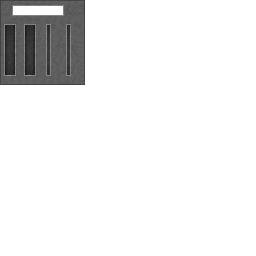
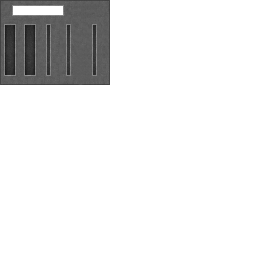
add working reverser

Changed region(s): [[0.3125, 0.0, 0.4375, 0.3438]]

diff --git a/src/main/java/cam72cam/immersiverailroading/entity/Locomotive.java b/src/main/java/cam72cam/immersiverailroading/entity/Locomotive.java
@@ -25,6 +25,7 @@ public abstract class Locomotive extends FreightTank {
 
 	private static DataParameter<Float> THROTTLE = EntityDataManager.createKey(Locomotive.class, DataSerializers.FLOAT);
 	private static DataParameter<Float> AIR_BRAKE = EntityDataManager.createKey(Locomotive.class, DataSerializers.FLOAT);
+	private static DataParameter<Float> REVERSER = EntityDataManager.createKey(Locomotive.class, DataSerializers.FLOAT);
 	protected static DataParameter<Integer> HORN = EntityDataManager.createKey(Locomotive.class, DataSerializers.VARINT);
 	protected static DataParameter<Optional<UUID>> HORN_PLAYER = EntityDataManager.createKey(Locomotive.class, DataSerializers.OPTIONAL_UNIQUE_ID);
 	
@@ -34,13 +35,14 @@ public abstract class Locomotive extends FreightTank {
 	
 	private boolean deadMansSwitch;
 	private int deadManChangeTimeout;
-	
+	private int keyTimeout;
 	
 	public Locomotive(World world, String defID) {
 		super(world, defID);
 
 		this.getDataManager().register(THROTTLE, 0f);
 		this.getDataManager().register(AIR_BRAKE, 0f);
+		this.getDataManager().register(REVERSER, 0f);
 		this.getDataManager().register(HORN, 0);
 		this.getDataManager().register(HORN_PLAYER, Optional.absent());
 
@@ -69,19 +71,35 @@ public abstract class Locomotive extends FreightTank {
 	}
 
 	@Override
-	protected void writeEntityToNBT(NBTTagCompound nbttagcompound) {
-		super.writeEntityToNBT(nbttagcompound);
-		nbttagcompound.setFloat("throttle", getThrottle());
-		nbttagcompound.setFloat("brake", getAirBrake());
-		nbttagcompound.setBoolean("deadMansSwitch", deadMansSwitch);
+	protected void writeEntityToNBT(NBTTagCompound nbt) {
+		super.writeEntityToNBT(nbt);
+		nbt.setFloat("throttle", this.getThrottle());
+		nbt.setFloat("brake", this.getAirBrake());
+		nbt.setBoolean("deadMansSwitch", this.deadMansSwitch);
+		nbt.setFloat("reverser", this.getReverser());
+		
 	}
 
 	@Override
-	protected void readEntityFromNBT(NBTTagCompound nbttagcompound) {
-		super.readEntityFromNBT(nbttagcompound);
-		setThrottle(nbttagcompound.getFloat("throttle"));
-		setAirBrake(nbttagcompound.getFloat("brake"));
-		deadMansSwitch = nbttagcompound.getBoolean("deadMansSwitch");
+	protected void readEntityFromNBT(NBTTagCompound nbt) {
+		super.readEntityFromNBT(nbt);
+		this.setThrottle(nbt.getFloat("throttle"));
+		this.setAirBrake(nbt.getFloat("brake"));
+		this.deadMansSwitch = nbt.getBoolean("deadMansSwitch");
+		this.setReverser(nbt.getFloat("reverser"));
+	}
+	
+	public float getReverserNotch () {
+		if ((Object) this instanceof LocomotiveDiesel) {
+			if (this.keyTimeout == 0) {
+				this.keyTimeout = 5;
+				return 1f;
+			}
+			
+			return 0f;
+		}
+		
+		return 0.02f;
 	}
 	
 	@Override
@@ -99,7 +117,7 @@ public abstract class Locomotive extends FreightTank {
 			setThrottle(0f);
 			break;
 		case THROTTLE_DOWN:
-			if (getThrottle() > -1) {
+			if (getThrottle() > 0) {
 				setThrottle(getThrottle() - throttleNotch);
 			}
 			break;
@@ -127,6 +145,20 @@ public abstract class Locomotive extends FreightTank {
 				this.deadManChangeTimeout = 5;
 			}
 			break;
+		case REVERSER_UP:
+			if (this.getReverser() < 1) {
+				this.setReverser(this.getReverser() + getReverserNotch());
+			}
+			break;
+		case REVERSER_DOWN:
+			if (this.getReverser() > -1) {
+				this.setReverser(this.getReverser() - getReverserNotch());
+			}
+			break;
+		case REVERSER_ZERO:
+			if (Math.abs(this.getReverser()) < 0.5) {
+				this.setReverser(0);
+			}
 		default:
 			super.handleKeyPress(source, key, sprinting);
 			break;
@@ -186,6 +218,7 @@ public abstract class Locomotive extends FreightTank {
 				if (!hasDriver) {
 					this.setThrottle(0);
 					this.setAirBrake(1);
+					this.setReverser(0);
 				}
 			}
 			if (this.getDataManager().get(HORN) > 0) {
@@ -195,14 +228,18 @@ public abstract class Locomotive extends FreightTank {
 			}
 		}
 		
+		if (this.keyTimeout > 0) {
+			this.keyTimeout--;
+		}
+		
 		simulateWheelSlip();
 	}
 	
 	protected abstract int getAvailableHP();
 	
-	private double getAppliedTractiveEffort(Speed speed) {
+	protected double getAppliedTractiveEffort(Speed speed) {
 		double locoEfficiency = 0.7f; //TODO config
-		double outputHorsepower = Math.abs(Math.pow(getThrottle(), 3) * getAvailableHP());
+		double outputHorsepower = Math.abs(Math.pow(getThrottle() * getReverser(), 3) * getAvailableHP());
 		
 		double tractiveEffortNewtons = (2650.0 * ((locoEfficiency * outputHorsepower) / Math.max(1.4, Math.abs(speed.metric()))));
 		return tractiveEffortNewtons;
@@ -214,7 +251,7 @@ public abstract class Locomotive extends FreightTank {
 		staticTractiveEffort *= 1.5; // Fudge factor
 		double adhesionFactor = tractiveEffortNewtons / staticTractiveEffort;
 		if (adhesionFactor > 1) {
-			this.distanceTraveled += Math.copySign(Math.min((adhesionFactor-1)/10, 1), getThrottle());
+			this.distanceTraveled += Math.copySign(Math.min((adhesionFactor-1)/10, 1), getThrottle() * getReverser());
 		}
 	}
 	
@@ -240,7 +277,7 @@ public abstract class Locomotive extends FreightTank {
 			tractiveEffortNewtons = 0;
 		}
 		
-		return Math.copySign(tractiveEffortNewtons, getThrottle());
+		return Math.copySign(tractiveEffortNewtons, getThrottle() * getReverser());
 	}
 
 	/*
@@ -254,6 +291,17 @@ public abstract class Locomotive extends FreightTank {
 	public void setThrottle(float newThrottle) {
 		if (this.getThrottle() != newThrottle) {
 			dataManager.set(THROTTLE, newThrottle);
+			triggerResimulate();
+		}
+	}
+	
+	public float getReverser() {
+		return this.getDataManager().get(REVERSER);
+	}
+
+	public void setReverser(float reverse) {
+		if (this.getReverser() != reverse) {
+			this.getDataManager().set(REVERSER, reverse);
 			triggerResimulate();
 		}
 	}

diff --git a/src/main/java/cam72cam/immersiverailroading/proxy/ClientProxy.java b/src/main/java/cam72cam/immersiverailroading/proxy/ClientProxy.java
@@ -242,6 +242,9 @@ public class ClientProxy extends CommonProxy {
 		keys.put(KeyTypes.AIR_BRAKE_UP, new KeyBinding("ir_keys.increase_brake", Keyboard.KEY_NUMPAD7, "key.categories." + ImmersiveRailroading.MODID));
 		keys.put(KeyTypes.AIR_BRAKE_ZERO, new KeyBinding("ir_keys.zero_brake", Keyboard.KEY_NUMPAD4, "key.categories." + ImmersiveRailroading.MODID));
 		keys.put(KeyTypes.AIR_BRAKE_DOWN, new KeyBinding("ir_keys.decrease_brake", Keyboard.KEY_NUMPAD1, "key.categories." + ImmersiveRailroading.MODID));
+		keys.put(KeyTypes.REVERSER_UP, new KeyBinding("ir_keys.increase_reverser", Keyboard.KEY_NUMPAD9, "key.categories." + ImmersiveRailroading.MODID));
+		keys.put(KeyTypes.REVERSER_DOWN, new KeyBinding("ir_keys.decrease_reverser", Keyboard.KEY_NUMPAD3, "key.categories." + ImmersiveRailroading.MODID));
+		keys.put(KeyTypes.REVERSER_ZERO, new KeyBinding("ir_keys.zero_reverser", Keyboard.KEY_NUMPAD6, "key.categories." + ImmersiveRailroading.MODID));
 		keys.put(KeyTypes.HORN, new KeyBinding("ir_keys.horn", Keyboard.KEY_NUMPADENTER, "key.categories." + ImmersiveRailroading.MODID));
 		keys.put(KeyTypes.DEAD_MANS_SWITCH, new KeyBinding("ir_keys.dead_mans_switch", Keyboard.KEY_NUMPADEQUALS, "key.categories." + ImmersiveRailroading.MODID));
 		keys.put(KeyTypes.START_STOP_ENGINE, new KeyBinding("ir_keys.start_stop_engine", Keyboard.KEY_ADD, "key.categories." + ImmersiveRailroading.MODID));
@@ -252,6 +255,9 @@ public class ClientProxy extends CommonProxy {
 		ClientRegistry.registerKeyBinding(keys.get(KeyTypes.AIR_BRAKE_UP));
 		ClientRegistry.registerKeyBinding(keys.get(KeyTypes.AIR_BRAKE_DOWN));
 		ClientRegistry.registerKeyBinding(keys.get(KeyTypes.AIR_BRAKE_ZERO));
+		ClientRegistry.registerKeyBinding(keys.get(KeyTypes.REVERSER_UP));
+		ClientRegistry.registerKeyBinding(keys.get(KeyTypes.REVERSER_DOWN));
+		ClientRegistry.registerKeyBinding(keys.get(KeyTypes.REVERSER_ZERO));
 		ClientRegistry.registerKeyBinding(keys.get(KeyTypes.HORN));
 		ClientRegistry.registerKeyBinding(keys.get(KeyTypes.DEAD_MANS_SWITCH));
 		ClientRegistry.registerKeyBinding(keys.get(KeyTypes.START_STOP_ENGINE));

diff --git a/src/main/java/cam72cam/immersiverailroading/entity/LocomotiveSteam.java b/src/main/java/cam72cam/immersiverailroading/entity/LocomotiveSteam.java
@@ -21,6 +21,7 @@ import cam72cam.immersiverailroading.sound.ISound;
 import cam72cam.immersiverailroading.util.BurnUtil;
 import cam72cam.immersiverailroading.util.FluidQuantity;
 import cam72cam.immersiverailroading.util.LiquidUtil;
+import cam72cam.immersiverailroading.util.Speed;
 import cam72cam.immersiverailroading.util.VecUtil;
 import io.netty.buffer.ByteBuf;
 import net.minecraft.entity.Entity;
@@ -160,6 +161,24 @@ public class LocomotiveSteam extends Locomotive {
 			return this.getDefinition().getHorsePower(gauge);
 		}
 		return (int) (this.getDefinition().getHorsePower(gauge) * Math.pow(this.getBoilerPressure() / this.getDefinition().getMaxPSI(gauge), 3));
+	}
+	
+	@Override
+	protected double getAppliedTractiveEffort(Speed speed) {
+		double locoEfficiency = 0.7f; //TODO config
+		double reverser = 0;
+		if (this.getCurrentSpeed().metric() == 0 && (this.getReverser() < -0.9 || this.getReverser() > 0.9)) {
+			reverser = 0.2;
+		}
+		if (this.getCurrentSpeed().metric() != 0.0 && this.getReverser() != 0.0) {
+			reverser = Math.abs(0.8 - this.getReverser());
+			reverser = this.getReverser() > 0.0 ? reverser : -reverser;
+		}
+		
+		double outputHorsepower = Math.abs(Math.pow(getThrottle() * reverser, 3) * getAvailableHP());
+		
+		double tractiveEffortNewtons = (2650.0 * ((locoEfficiency * outputHorsepower) / Math.max(1.4, Math.abs(speed.metric()))));
+		return tractiveEffortNewtons;
 	}
 	
 	

diff --git a/src/main/java/cam72cam/immersiverailroading/gui/overlay/LocomotiveOverlay.java b/src/main/java/cam72cam/immersiverailroading/gui/overlay/LocomotiveOverlay.java
@@ -126,11 +126,11 @@ public class LocomotiveOverlay extends Gui {
 	public void drawBackground(Locomotive loco) {
 		if(loco instanceof LocomotiveSteam) {
 			mc.renderEngine.bindTexture(OVERLAY_STEAM_TEXTURE);
-			drawTexturedModalRect(bgPosX, bgPosY, 0, 0, 105, 85);
+			drawTexturedModalRect(bgPosX, bgPosY, 0, 0, 130, 85);
 		}
 		if(loco instanceof LocomotiveDiesel) {
 			mc.renderEngine.bindTexture(OVERLAY_DIESEL_TEXTURE);
-			drawTexturedModalRect(bgPosX, bgPosY, 0, 0, 85, 85);
+			drawTexturedModalRect(bgPosX, bgPosY, 0, 0, 110, 85);
 		}
 		if(loco instanceof HandCar) {
 			mc.renderEngine.bindTexture(OVERLAY_HANDCAR_TEXTURE);

diff --git a/src/main/java/cam72cam/immersiverailroading/gui/overlay/DieselLocomotiveOverlay.java b/src/main/java/cam72cam/immersiverailroading/gui/overlay/DieselLocomotiveOverlay.java
@@ -36,8 +36,11 @@ public class DieselLocomotiveOverlay extends LocomotiveOverlay {
 		}
 		drawGauge(heatColor, loco.getEngineTemperature(), 150, "C");
 		
-		drawScalar(GuiText.LABEL_BRAKE.toString(), loco.getAirBrake()*10, 0, 10);
-		drawScalar(GuiText.LABEL_THROTTLE.toString(), loco.getThrottle()*10, -10, 10);
+		drawScalar(GuiText.LABEL_BRAKE.toString(), loco.getAirBrake() * 10, 0, 10);
+		drawScalar(GuiText.LABEL_THROTTLE.toString(), loco.getThrottle() * 10, -10, 10);
+		
+		addSpace(6);
+		drawScalar(GuiText.valueOf("LABEL_REVERSER").toString(), loco.getReverser() * 10, -10, 10);
 		
 		drawSpeedDisplay(loco, 8);
 	}

diff --git a/src/main/java/cam72cam/immersiverailroading/gui/overlay/SteamLocomotiveOverlay.java b/src/main/java/cam72cam/immersiverailroading/gui/overlay/SteamLocomotiveOverlay.java
@@ -29,8 +29,11 @@ public class SteamLocomotiveOverlay extends LocomotiveOverlay {
 		
 		drawGauge(boilerColor, loco.getBoilerTemperature(), 150, "C");
 		
-		drawScalar(GuiText.LABEL_BRAKE.toString(), loco.getAirBrake()*10, 0, 10);
-		drawScalar(GuiText.LABEL_THROTTLE.toString(), loco.getThrottle()*10, -10, 10);
+		drawScalar(GuiText.LABEL_BRAKE.toString(), loco.getAirBrake() * 10, 0, 10);
+		drawScalar(GuiText.LABEL_THROTTLE.toString(), loco.getThrottle() * 10, 0, 10);
+		
+		addSpace(6);
+		drawScalar(GuiText.valueOf("LABEL_REVERSER").toString(), loco.getReverser() * 10, -10, 10);
 		
 		drawSpeedDisplay(loco, 20);
 	}

diff --git a/src/main/java/cam72cam/immersiverailroading/entity/LocomotiveDiesel.java b/src/main/java/cam72cam/immersiverailroading/entity/LocomotiveDiesel.java
@@ -125,6 +125,7 @@ public class LocomotiveDiesel extends Locomotive {
 		if (stock instanceof LocomotiveDiesel && ((LocomotiveDiesel)stock).getDefinition().muliUnitCapable) {
 			((LocomotiveDiesel) stock).realSetThrottle(this.getThrottle() * (direction ? 1 : -1));
 			((LocomotiveDiesel) stock).realAirBrake(this.getAirBrake());
+			((Locomotive) stock).setReverser(this.getReverser());
 		}
 	}
 	

diff --git a/src/main/java/cam72cam/immersiverailroading/render/entity/StockModel.java b/src/main/java/cam72cam/immersiverailroading/render/entity/StockModel.java
@@ -771,7 +771,7 @@ public class StockModel extends OBJRender {
 		}
 		GL11.glPopMatrix();
 		
-		float throttle = stock.getThrottle();
+		float throttle = stock.getReverser();
 		double forwardMax = (slottedLink.min().y - slottedLinkRotPoint.y) * 0.4;
 		double forwardMin = (slottedLink.max().y - slottedLinkRotPoint.y) * 0.65;
 		double throttleSlotPos = 0;

diff --git a/src/main/java/cam72cam/immersiverailroading/library/GuiText.java b/src/main/java/cam72cam/immersiverailroading/library/GuiText.java
@@ -5,6 +5,7 @@ import cam72cam.immersiverailroading.util.TextUtil;
 public enum GuiText {
 	LABEL_BRAKE("label.brake"),
 	LABEL_THROTTLE("label.throttle"),
+	LABEL_REVERSER("label.reverser"),
 	SELECTOR_TYPE("selector.type"),
 	SELECTOR_QUARTERS("selector.quarters"),
 	SELECTOR_RAIL_BED("selector.rail_bed"),

diff --git a/src/main/java/cam72cam/immersiverailroading/library/KeyTypes.java b/src/main/java/cam72cam/immersiverailroading/library/KeyTypes.java
@@ -15,5 +15,8 @@ public enum KeyTypes {
 	PLAYER_LEFT,
 	PLAYER_RIGHT,
 	START_STOP_ENGINE,
+	REVERSER_UP,
+	REVERSER_DOWN,
+	REVERSER_ZERO,
 	;
 }
